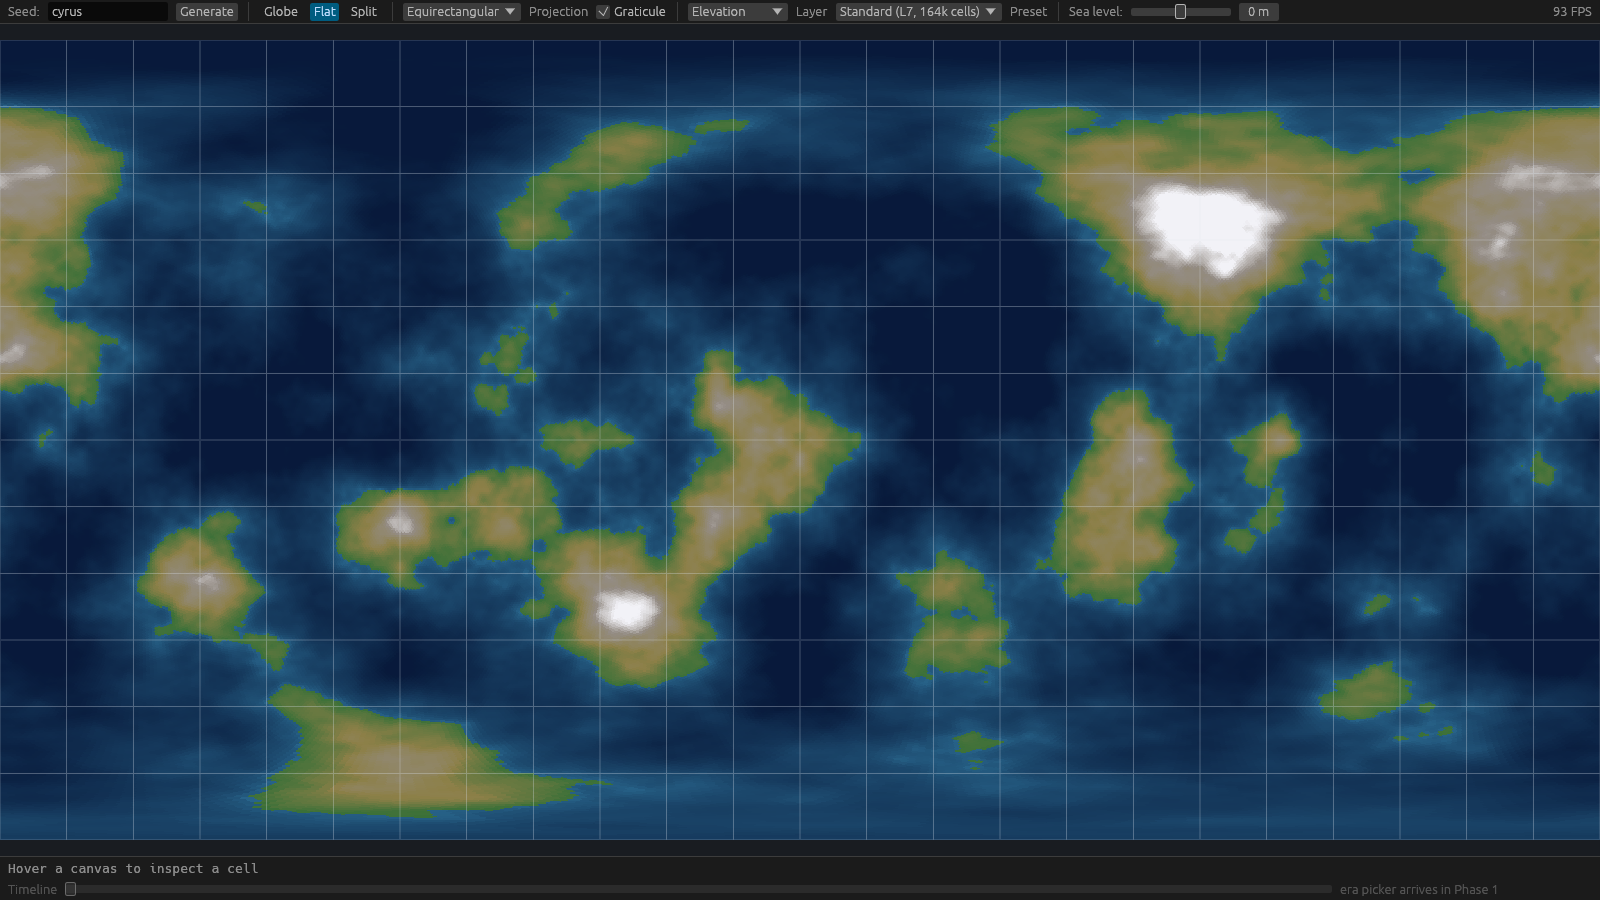
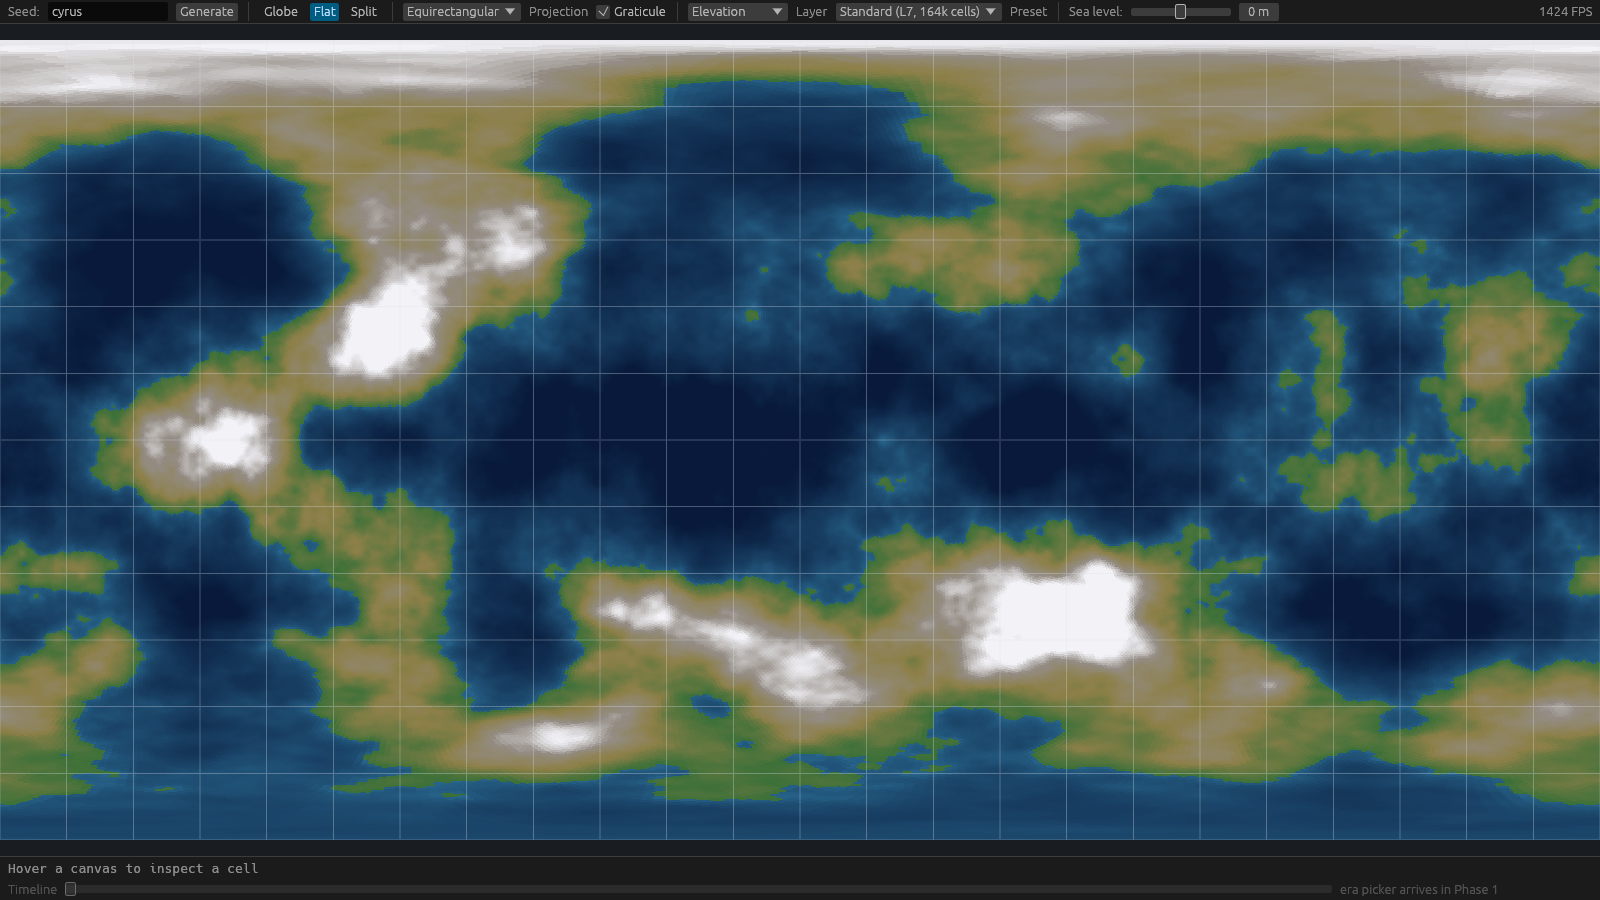
fix: apply confirmed findings from the phase 0 multi-agent review
- noise stage draws its lattice seed through sub_rng(seed, stage id, purpose),
  honoring the documented Stage RNG contract; elevation golden hash
  regenerated (decision log entry added)
- pipeline cache is bound to the WorldState instance it ran against; a fresh
  world re-runs all stages instead of silently skipping (new test)
- WGSL equirectangular inverse uses the same strict bounds gate as core, so
  rendered pixels and the cursor readout agree at the antimeridian
- --perf-out and --screenshots now chain in one invocation instead of the
  screenshot script silently discarding the perf results
- CLAUDE.md approved-deps note includes bytemuck; WO-0001 states L9 coverage
  honestly (new --ignored L9 smoke test, passes in 0.39 s release)
- results JSON and screenshots regenerated under the new noise derivation

diff --git a/crates/worldmaker-sim/src/pipeline.rs b/crates/worldmaker-sim/src/pipeline.rs
@@ -6,6 +6,7 @@
 //! changes (or an upstream stage re-ran). Later phases add edit overlays and
 //! keyframed history on the same skeleton.
 
+use std::sync::atomic::{AtomicU64, Ordering};
 use std::sync::Arc;
 
 use worldmaker_core::hash::{fnv1a_continue, FNV_OFFSET};
@@ -16,10 +17,15 @@ pub struct StageContext {
     pub master_seed: u64,
 }
 
+static NEXT_WORLD_ID: AtomicU64 = AtomicU64::new(1);
+
 /// The world being built: the grid plus all per-cell fields produced so far.
 pub struct WorldState {
     pub grid: Arc<Grid>,
     pub fields: FieldStore,
+    /// Unique per instance: cached stage outputs live in this world's fields,
+    /// so the pipeline's cache is only valid against the same instance.
+    id: u64,
 }
 
 impl WorldState {
@@ -28,6 +34,7 @@ impl WorldState {
         WorldState {
             grid,
             fields: FieldStore::new(cell_count),
+            id: NEXT_WORLD_ID.fetch_add(1, Ordering::Relaxed),
         }
     }
 }
@@ -54,8 +61,13 @@ struct StageSlot {
 }
 
 /// Fixed-order pipeline with per-stage cache keys and downstream dirtying.
+///
+/// Cache entries describe fields written into the last `WorldState` this
+/// pipeline ran against; handing in a different world invalidates everything
+/// (the outputs live in the world, not in the pipeline).
 pub struct Pipeline {
     slots: Vec<StageSlot>,
+    last_world: Option<u64>,
 }
 
 impl Default for Pipeline {
@@ -66,7 +78,10 @@ impl Default for Pipeline {
 
 impl Pipeline {
     pub fn new() -> Self {
-        Pipeline { slots: Vec::new() }
+        Pipeline {
+            slots: Vec::new(),
+            last_world: None,
+        }
     }
 
     /// Append a stage. Order of registration is execution order.
@@ -96,7 +111,10 @@ impl Pipeline {
     ) -> anyhow::Result<Vec<&'static str>> {
         let mut ran = Vec::new();
         let mut upstream_key: u64 = FNV_OFFSET;
-        let mut upstream_dirty = false;
+        // A different WorldState instance means none of our cached outputs
+        // exist in it — everything is dirty regardless of matching keys.
+        let mut upstream_dirty = self.last_world != Some(world.id);
+        self.last_world = Some(world.id);
         for slot in &mut self.slots {
             let mut key = upstream_key;
             key = fnv1a_continue(key, slot.stage.id().as_bytes());
@@ -177,5 +195,31 @@ mod tests {
         pipe.run(&ctx2, &mut world).unwrap();
         assert_eq!(runs_a.load(Ordering::SeqCst), 2);
         assert_eq!(runs_b.load(Ordering::SeqCst), 3);
+    }
+
+    /// The cache must not survive a change of WorldState: outputs live in the
+    /// world, so a fresh world with an identical cache key still needs every
+    /// stage to run.
+    #[test]
+    fn fresh_world_invalidates_cache() {
+        let grid = Arc::new(Grid::build(2));
+        let runs = StdArc::new(AtomicUsize::new(0));
+        let mut pipe = Pipeline::new();
+        pipe.push(Box::new(CountingStage {
+            id: "a",
+            params: 1,
+            runs: runs.clone(),
+        }));
+        let ctx = StageContext { master_seed: 42 };
+
+        let mut world_a = WorldState::new(grid.clone());
+        pipe.run(&ctx, &mut world_a).unwrap();
+        assert_eq!(runs.load(Ordering::SeqCst), 1);
+
+        // Same seed, same grid level, but a different world instance.
+        let mut world_b = WorldState::new(grid);
+        let ran = pipe.run(&ctx, &mut world_b).unwrap();
+        assert_eq!(ran, vec!["a"], "stage must re-run against a fresh world");
+        assert_eq!(runs.load(Ordering::SeqCst), 2);
     }
 }

diff --git a/crates/worldmaker-app/src/app.rs b/crates/worldmaker-app/src/app.rs
@@ -166,18 +166,20 @@ impl WorldApp {
             pick_hint: None,
             frame_times: Vec::with_capacity(240),
             last_frame: Instant::now(),
-            script_state: if script.screenshots_dir.is_some() {
-                ScriptState::Shot {
-                    stage: 0,
-                    frames: 0,
-                    requested: false,
-                }
-            } else if script.perf_out.is_some() {
+            // Perf runs first when both flags are given; its completion chains
+            // into the screenshot script so neither output is silently lost.
+            script_state: if script.perf_out.is_some() {
                 ScriptState::Perf {
                     stage: 0,
                     frames: 0,
                     started: None,
                     fps: Vec::new(),
+                }
+            } else if script.screenshots_dir.is_some() {
+                ScriptState::Shot {
+                    stage: 0,
+                    frames: 0,
+                    requested: false,
                 }
             } else {
                 ScriptState::Idle
@@ -458,7 +460,16 @@ impl WorldApp {
                     } else {
                         let fps_taken = std::mem::take(fps);
                         self.write_perf_results(&fps_taken);
-                        self.script_state = ScriptState::Closing;
+                        // Chain into screenshots if both flags were given.
+                        self.script_state = if self.script.screenshots_dir.is_some() {
+                            ScriptState::Shot {
+                                stage: 0,
+                                frames: 0,
+                                requested: false,
+                            }
+                        } else {
+                            ScriptState::Closing
+                        };
                     }
                 }
             }

diff --git a/crates/worldmaker-sim/src/noise_stage.rs b/crates/worldmaker-sim/src/noise_stage.rs
@@ -6,10 +6,12 @@
 //! polynomial smoothing touch the data), so the elevation field hashes
 //! bit-identically across platforms — that hash is a committed regression test.
 
+use rand::RngCore;
 use rayon::prelude::*;
 
 use crate::pipeline::{Stage, StageContext, WorldState};
 use worldmaker_core::hash::splitmix64;
+use worldmaker_core::rng::sub_rng;
 
 /// Name of the field this stage writes.
 pub const ELEVATION_FIELD: &str = "elevation_m";
@@ -35,9 +37,11 @@ impl Stage for NoiseElevationStage {
     }
 
     fn run(&self, ctx: &StageContext, world: &mut WorldState) -> anyhow::Result<()> {
-        // Sub-seed for this stage, derived the same way sub_rng derives streams;
-        // the lattice hash consumes it directly.
-        let seed = splitmix64(ctx.master_seed ^ 0x7761_6c6b_5f30_5f65); // "walk_0_e"
+        // Base seed for the noise lattice, drawn through the one sanctioned
+        // RNG path: a PCG sub-stream keyed by (master seed, stage id, purpose).
+        // The lattice hash then consumes this u64 directly (value noise needs
+        // random access by coordinate, not a sequential stream).
+        let seed = sub_rng(ctx.master_seed, self.id(), "lattice-noise").next_u64();
         let grid = world.grid.clone();
         let octaves = self.octaves;
         let out = world.fields.get_or_insert_mut(ELEVATION_FIELD);

diff --git a/crates/worldmaker-core/tests/grid_tests.rs b/crates/worldmaker-core/tests/grid_tests.rs
@@ -24,6 +24,16 @@ fn vertex_count_matches_formula_per_level() {
     assert_eq!(cell_count_for_level(9), 2_621_442);
 }
 
+/// L9 (2.6M cells) is too heavy for every CI run; execute explicitly with
+/// `cargo test --release -- --ignored`. The perf harness also builds it.
+#[test]
+#[ignore = "heavy: 2.6M-cell build; run with --ignored"]
+fn generates_l9_without_panic() {
+    let g = Grid::build(9);
+    assert_eq!(g.cell_count(), cell_count_for_level(9));
+    assert_eq!(g.pentagon_count(), 12);
+}
+
 #[test]
 fn generates_l6_through_l8_without_panic() {
     for level in 6..=8 {

diff --git a/crates/worldmaker-sim/tests/determinism_tests.rs b/crates/worldmaker-sim/tests/determinism_tests.rs
@@ -23,7 +23,10 @@ fn elevation_hash(level: u32, seed: u64) -> u64 {
 /// Produced once on Dan's PC (2026-08-19) and committed; CI on Linux must
 /// reproduce it bit-for-bit, which is what makes this a cross-platform
 /// determinism proof.
-const GOLDEN_HASH_L6_SEED42: u64 = 0x7533_a0e9_ea9a_55b4;
+///
+/// History: regenerated 2026-08-19 when the noise stage switched its seed
+/// derivation to the sanctioned sub_rng path (decision log).
+const GOLDEN_HASH_L6_SEED42: u64 = 0xa86a_7471_79a3_5a46;
 
 #[test]
 fn same_seed_same_hash_twice() {

diff --git a/docs/plan/decision-log.md b/docs/plan/decision-log.md
@@ -23,3 +23,4 @@ One line per decision: date, the decision, why/scope, and who made it
 | 2026-08-19 | Dependency addition: flexi_logger — the approved list allows "log plus a file logger"; flexi_logger provides rotating file logs beside the executable. | default |
 | 2026-08-19 | Dependency addition: pollster — one-function futures executor needed to call wgpu's async adapter probe synchronously at startup; no runtime, no transitive weight. | default |
 | 2026-08-19 | Dependency addition: bytemuck — safe byte-casting for GPU vertex/uniform buffers; already in the dependency tree via egui/wgpu, standard for wgpu apps. | default |
+| 2026-08-19 | Noise stage reseeded through sub_rng(seed, stage-id, purpose) instead of an ad-hoc XOR constant, honoring the Stage RNG contract before Phase 1 copies it; elevation golden hash regenerated (review finding). | default |

diff --git a/CLAUDE.md b/CLAUDE.md
@@ -21,7 +21,7 @@ including GitHub (repo: dancyrus/WorldMaker).
 5. No network calls, no telemetry in the app. Cargo.lock is committed.
 6. Approved deps: eframe/egui, wgpu, rayon, rand, rand_pcg, serde, serde_json,
    image, log + a file logger, anyhow, thiserror. Anything else needs one line of
-   why in docs/plan/decision-log.md (current additions: flexi_logger, pollster).
+   why in docs/plan/decision-log.md (current: flexi_logger, pollster, bytemuck).
 7. Determinism: one u64 master seed; PCG sub-streams keyed by (seed, stage, purpose);
    fixed iteration order; no HashMap iteration in sim paths; no fast-math.
 8. Performance budgets benchmark to Dan's PC only (i7-12700KF, RTX 3080).

diff --git a/docs/work-orders/WO-0001-phase0.md b/docs/work-orders/WO-0001-phase0.md
@@ -20,7 +20,8 @@ brushes).
 - [x] This work order
 
 ### worldmaker-core
-- [x] Icosphere grid L6–L9; vertex count = 10·4^L + 2 (tested per level)
+- [x] Icosphere grid L6–L9; vertex count = 10·4^L + 2 (L0–L8 build-tested in CI;
+      L9 covered by an `--ignored` smoke test, run locally, and the perf harness)
 - [x] Goldberg dual: exactly 12 pentagons, rest hexagons (tested)
 - [x] Cell centers as unit vectors + lat/lon; CSR neighbor table (CCW, symmetric)
 - [x] SoA f32 field storage keyed by cell id
